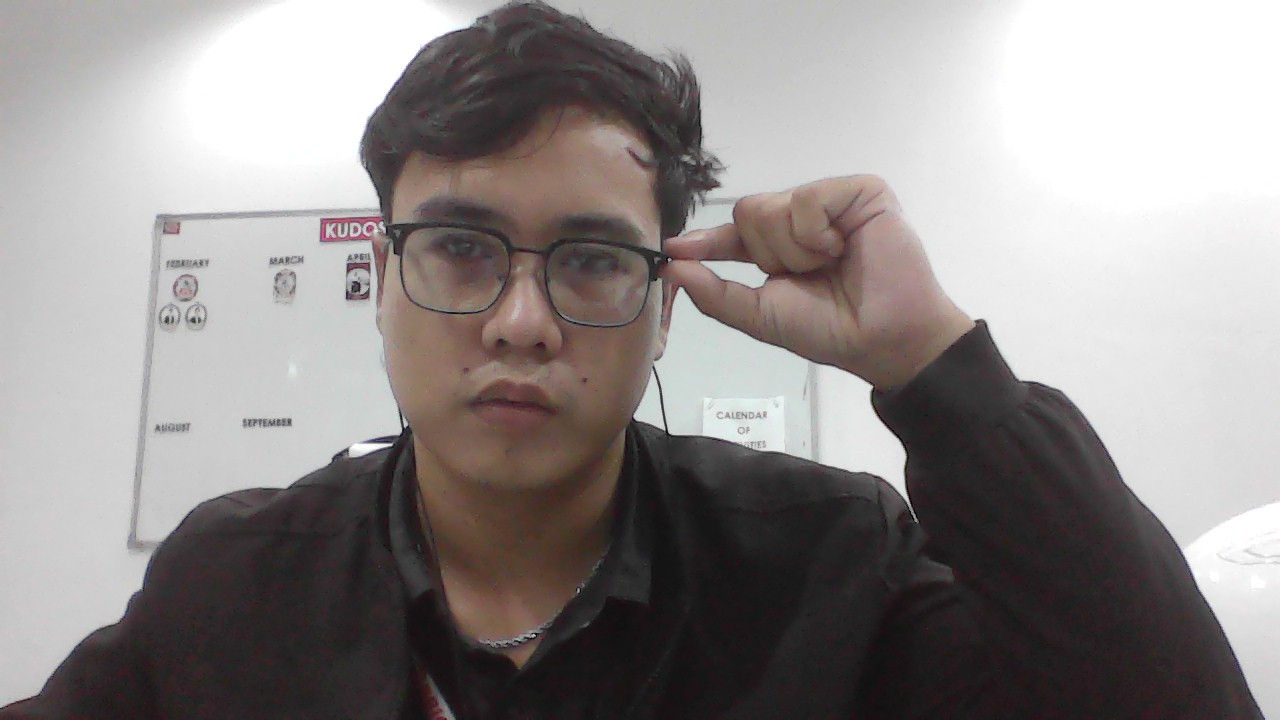
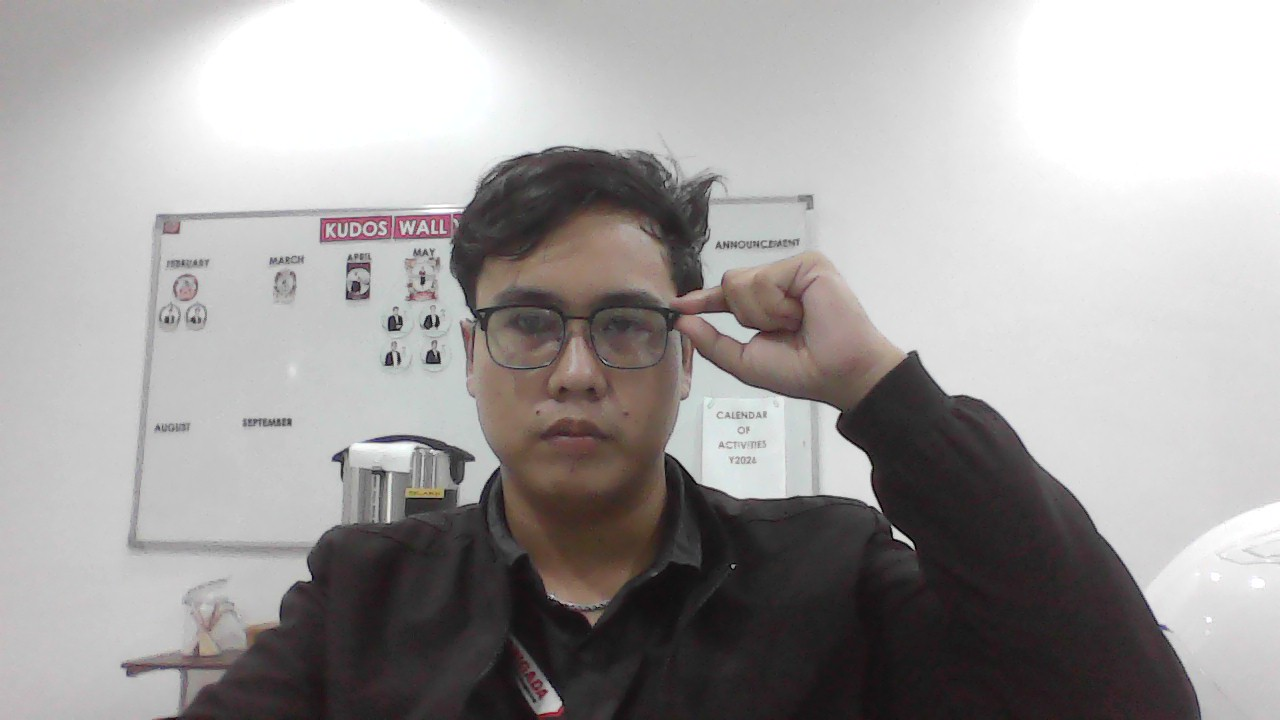
Go back to the first photo's hand, 18 percent smaller
The reshoot's bake was never going to sit right: the wrist is cocked,
so straightening the forearm pointed the fingers up, and leaving it
alone sent the arm straight out of the circle. The first take reads
better, so the art comes from it again, with the whole layer finished
at 0.82 about the grip point.

Shrinking by rebaking at a smaller scale was the wrong lever: the
sleeve is drawn from the end of the arm down to the frame, so a smaller
hand only made that run longer and the sleeve fatter. The flare is a
fixed 30 percent over the run now, and the finish scale takes hand and
sleeve together. The reshoot stays as 1-reshoot.jpg, with its numbers
written down in the cut script.

diff --git a/components/ProfileShades.vue b/components/ProfileShades.vue
@@ -5,7 +5,7 @@
       <img src="/profile-shades-glasses.webp" alt="" width="287" height="102" class="profile-shades__art" :style="GLASSES_BOX">
     </div>
     <div ref="handEl" class="profile-shades__layer">
-      <img src="/profile-shades-hand.webp" alt="" width="237" height="731" class="profile-shades__art" :style="HAND_BOX">
+      <img src="/profile-shades-hand.webp" alt="" width="213" height="585" class="profile-shades__art" :style="HAND_BOX">
     </div>
   </div>
 </template>
@@ -25,7 +25,7 @@ import { nextTick, onBeforeUnmount, onMounted, ref, watch } from 'vue'
 
 /* Where each picture sits on the square photo, in % of its width */
 const GLASSES_BOX = { left: '30.56%', top: '23.75%', width: '39.86%' }
-const HAND_BOX = { left: '67.36%', top: '21.25%', width: '32.92%' }
+const HAND_BOX = { left: '64.91%', top: '24.86%', width: '29.58%' }
 /** Where the fingers pinch the glasses: both layers swing around this point */
 const PINCH = '68.3% 26.1%'
 

diff --git a/assets/profile-shades/source/2-bake.py b/assets/profile-shades/source/2-bake.py
@@ -4,21 +4,19 @@ Grades the webcam's grey skin up to the portrait's, swings the forearm towards v
 hand against the face, carries the sleeve past the bottom of the frame (the photo stops at the elbow)
 and adds the same drop shadow the SVG art used. Prints the HAND_BOX percentages for ProfileShades.vue.
 
-    python assets/profile-shades/source/2-bake.py -14 0.80
+    python assets/profile-shades/source/2-bake.py -30 0.80 0.82
 """
 import sys, math
 from PIL import Image, ImageFilter
 import numpy as np
 
 BAKE='assets/profile-shades/source'
-ROT   = float(sys.argv[1]) if len(sys.argv) > 1 else -14.0
+ROT   = float(sys.argv[1]) if len(sys.argv) > 1 else -30.0
 SCALE = float(sys.argv[2]) if len(sys.argv) > 2 else 0.80
+FINISH = float(sys.argv[3]) if len(sys.argv) > 3 else 0.82   # the whole layer, hand and sleeve alike
 RENDER = 720                      # the photo's baking width, as in the SVG sources
 PX, PY = 0.683*RENDER, 0.261*RENDER
 SKIN_TARGET = np.array([200.0, 165.0, 150.0])   # the portrait's cheek, a shade darker
-PHOTO_ARM_LEAN = 39.0                           # the forearm's lean from vertical in 1.jpg
-WRIST_BEND = float(sys.argv[3]) if len(sys.argv) > 3 else -16.0   # extra swing for the forearm alone
-WRIST = (262, 185)                              # the cuff, in hand-cut.png coordinates
 
 # ---- grade: the webcam is grey and hazy next to the studio portrait
 cut = Image.open(BAKE+'/hand-cut.png')
@@ -41,29 +39,10 @@ cut = Image.fromarray(np.dstack([graded, alpha]).astype('uint8'))
 rgbp = Image.merge('RGB', cut.split()[:3]).filter(ImageFilter.MedianFilter(3))
 cut = Image.merge('RGBA', (*rgbp.split(), cut.split()[-1]))
 
-# ---- bend the wrist: the forearm alone swings towards vertical, so it runs down the portrait
-# instead of straight out of the circle. The hand is drawn back over the join, which hides it.
-if WRIST_BEND:
-    pad = 260
-    big = Image.new('RGBA', (cut.width+pad, cut.height+pad), (0,0,0,0))
-    big.alpha_composite(cut, (0, 0))
-    w = (WRIST[0], WRIST[1])
-    arr = np.asarray(big).astype(float)
-    yy, xx = np.mgrid[0:big.height, 0:big.width]
-    d = math.radians(PHOTO_ARM_LEAN)
-    t = (xx - w[0]) * math.sin(d) + (yy - w[1]) * math.cos(d)   # distance along the forearm
-    forearm = Image.fromarray(np.where((t > -30)[...,None], arr, 0).astype('uint8'))
-    hand = Image.fromarray(np.where((t <= 0)[...,None], arr, 0).astype('uint8'))
-    bent = Image.new('RGBA', big.size, (0,0,0,0))
-    bent.alpha_composite(forearm.rotate(WRIST_BEND, resample=Image.BICUBIC, center=w))
-    bent.alpha_composite(hand)
-    cut = bent
-    print(f'wrist bent {WRIST_BEND:g} deg')
-
 # ---- rotate + scale, tracking where the fingers pinch
 import json
 ORIGIN = json.load(open(BAKE+'/hand-cut.json'))['origin']   # where 1-cut.py cropped
-PINCH_IN_PHOTO = (666, 266)                                 # where the fingers grip, in 1.jpg
+PINCH_IN_PHOTO = (689, 305)                                 # where the fingers grip, in 1.jpg
 pinch = (PINCH_IN_PHOTO[0]-ORIGIN[0], PINCH_IN_PHOTO[1]-ORIGIN[1])
 rot = cut.rotate(ROT, resample=Image.BICUBIC, expand=True)
 t = math.radians(ROT)
@@ -85,11 +64,11 @@ y_src = ys.max() - 46                      # a clean row above the diagonal cut
 xs = np.nonzero(al[y_src])[0]
 x0, x1 = xs.min(), xs.max()
 row = arr[y_src:y_src+1, x0:x1+1].copy()
-# the forearm leans 39 deg in the photo; after the rotation the extension must follow it
-lean = math.radians(PHOTO_ARM_LEAN + WRIST_BEND + ROT)
-print(f'sleeve carried on at {math.degrees(lean):.1f} deg from vertical')
+lean = math.radians(13)
+ext_rows = RENDER + 160 - (y_src+1)
 for i, y in enumerate(range(y_src+1, RENDER + 160)):
-    w = round((x1-x0+1) * (1 + 0.0009*i))
+    # a fixed total flare: widening per row would fatten the sleeve whenever the hand shrinks
+    w = round((x1-x0+1) * (1 + 0.30*i/max(1, ext_rows)))
     x = round(x0 + i*math.tan(lean) - (w-(x1-x0+1))/2)
     strip = np.asarray(Image.fromarray(row.astype('uint8')).resize((w,1), Image.BICUBIC)).astype(float)[0]
     x = max(0, min(x, arr.shape[1]-1))
@@ -109,9 +88,17 @@ out.alpha_composite(big)
 
 bbox = out.split()[-1].point(lambda v: 255 if v > 4 else 0).getbbox()
 final = out.crop(bbox)
+# Shrink the finished layer about the grip point, so the hand reads smaller without the sleeve
+# having to be regenerated (regenerating it from higher up only flares it wider).
+fin_left = (bbox[0]-pad)/RENDER*100
+fin_top = (bbox[1]-pad)/RENDER*100
+if FINISH != 1.0:
+    final = final.resize((round(final.width*FINISH), round(final.height*FINISH)), Image.LANCZOS)
+    fin_left = PX/RENDER*100 - (PX/RENDER*100 - fin_left) * FINISH
+    fin_top = PY/RENDER*100 - (PY/RENDER*100 - fin_top) * FINISH
+    print(f'layer finished at x{FINISH:g}')
 # box of the art inside the photo, in % of the photo's width (what ProfileShades needs)
-left = (bbox[0]-pad)/RENDER*100
-top  = (bbox[1]-pad)/RENDER*100
+left, top = fin_left, fin_top
 width = final.width/RENDER*100
 print(f'HAND_BOX left {left:.2f}% top {top:.2f}% width {width:.2f}%  ({final.width}x{final.height})')
 final.save(BAKE+'/profile-shades-hand.webp', quality=88, method=6)

diff --git a/assets/profile-shades/source/1-cut.py b/assets/profile-shades/source/1-cut.py
@@ -5,6 +5,13 @@ separates them; a polygon cuts away his head, his spectacles and his torso, wher
 Writes hand-cut.png (and hand-cut-check.png on magenta, to eyeball the edge).
 
     python assets/profile-shades/source/1-cut.py
+
+1-reshoot.jpg is a second take, kept because it may be wanted again. To bake from it, swap SRC and use:
+    POLY = [(715,150),(960,160),(1000,270),(1060,360),(1130,470),(1210,610),(1205,660),(945,580),
+            (915,500),(890,420),(830,395),(760,370),(700,330),(684,305),(668,288),(666,268),(668,248),(680,232),(700,200)]
+    frame wedge x 664..700, y 232..305;  round_tip(238,264,11) and round_tip(264,294,11)
+    2-bake.py: PINCH_IN_PHOTO (666,266), PHOTO_ARM_LEAN 39, and -14 0.80 (its wrist is cocked, so a
+    bigger swing points the fingers at the sky; the forearm then leaves the circle almost at once).
 """
 from PIL import Image, ImageDraw, ImageFilter
 import numpy as np
@@ -17,8 +24,8 @@ a = np.asarray(im).astype(int)
 R,G,B = a[...,0],a[...,1],a[...,2]
 lum = (R*0.299+G*0.587+B*0.114)
 
-POLY=[(715,150),(960,160),(1000,270),(1060,360),(1130,470),(1210,610),(1205,660),(945,580),
-      (915,500),(890,420),(830,395),(760,370),(700,330),(684,305),(668,288),(666,268),(668,248),(680,232),(700,200)]
+POLY=[(710,240),(900,240),(1000,330),(1080,470),(1160,600),(1215,720),(980,720),(865,420),
+      (760,395),(700,370),(690,345),(686,320),(690,296),(700,272)]
 region = Image.new('L', im.size, 0)
 ImageDraw.Draw(region).polygon(POLY, fill=255)
 reg = np.asarray(region) > 0
@@ -26,7 +33,7 @@ reg = np.asarray(region) > 0
 fg = (((R-B > 12) & (lum < 210)) | (lum < 110)) & reg
 # A dark wedge of his spectacle frame sits on the index finger; the frame is not part of the hand
 yy, xx = np.mgrid[0:a.shape[0], 0:a.shape[1]]
-fg &= ~((xx >= 664) & (xx <= 700) & (yy >= 232) & (yy <= 305) & (lum < 125))
+fg &= ~((xx >= 686) & (xx <= 710) & (yy >= 262) & (yy <= 300) & (lum < 125))
 m = Image.fromarray((fg*255).astype('uint8'))
 m = m.filter(ImageFilter.MaxFilter(3)).filter(ImageFilter.MinFilter(3))
 m = m.filter(ImageFilter.MinFilter(3)).filter(ImageFilter.MaxFilter(3))
@@ -80,8 +87,8 @@ def round_tip(y0, y1, depth):
             shade = 1.0 - 0.13 * (i/d) ** 1.4          # the tip curves away from the light
             rgbf[y, x] = np.clip(edge * shade, 0, 255)
             keepf[y, x] = 1.0
-round_tip(238, 264, 11)   # index finger
-round_tip(264, 294, 11)   # thumb
+round_tip(289, 311, 13)   # index finger
+round_tip(311, 348, 13)   # thumb
 keep = keepf > 0.5
 im = Image.fromarray(rgbf.astype('uint8'))
 
